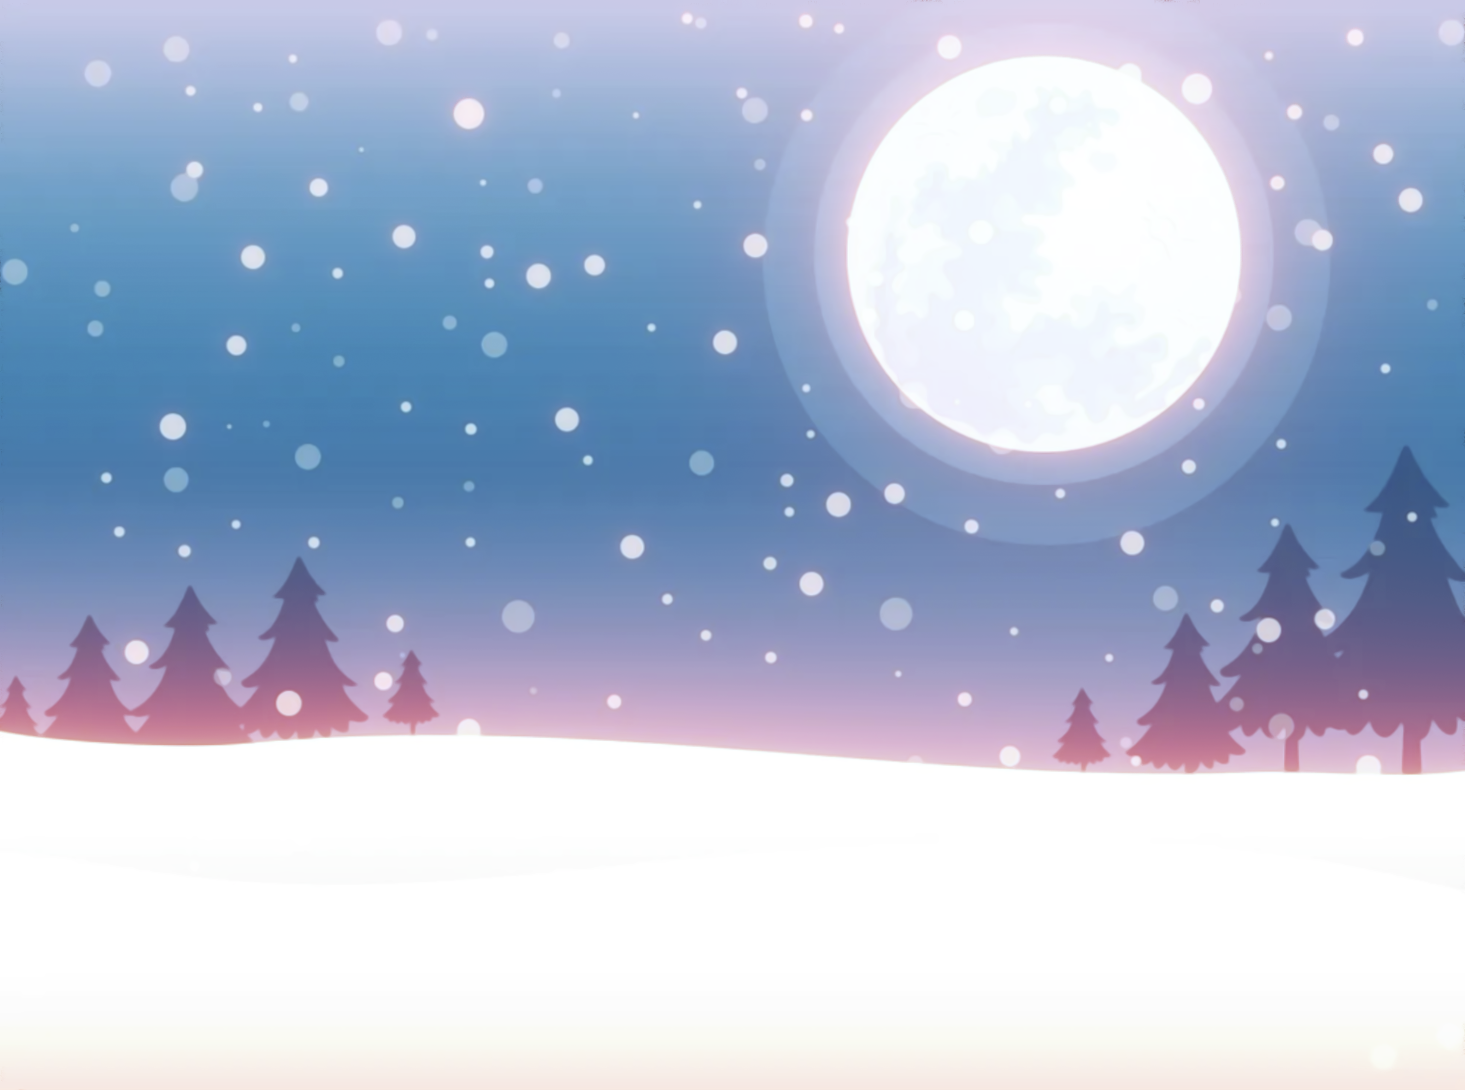
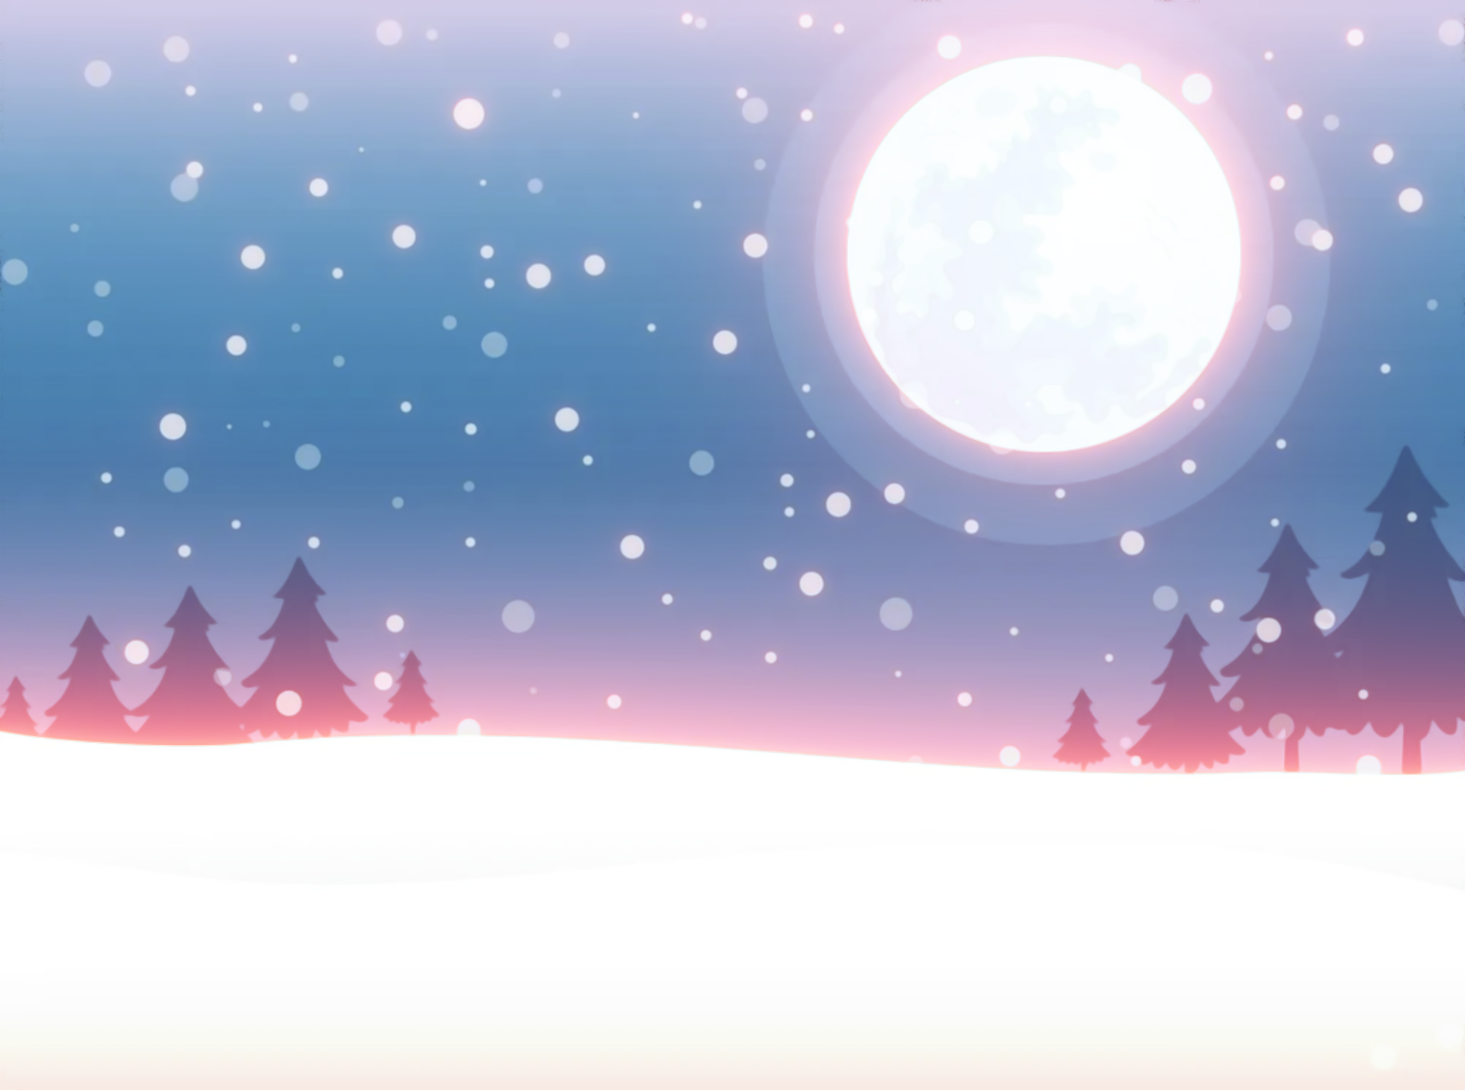
feat: add background anim variations

diff --git a/style.css b/style.css
@@ -424,25 +424,43 @@ body::-webkit-scrollbar-thumb {
   0% {
     background-image: url("./assets/pics/background/snowman_background_01.PNG");
   }
-  20% {
+  10% {
     background-image: url("./assets/pics/background/snowman_background_02.PNG");
+  }
+  15% {
+    background-image: url("./assets/pics/background/snowman_background_02.PNG");
+  }
+  20% {
+    background-image: url("./assets/pics/background/snowman_background_01.PNG");
   }
   25% {
-    background-image: url("./assets/pics/background/snowman_background_02.PNG");
+    background-image: url("./assets/pics/background/snowman_background_03.PNG");
   }
   30% {
+    background-image: url("./assets/pics/background/snowman_background_03.PNG");
+  }
+  35% {
     background-image: url("./assets/pics/background/snowman_background_01.PNG");
+  }
+  40% {
+    background-image: url("./assets/pics/background/snowman_background_04.PNG");
+  }
+  45% {
+    background-image: url("./assets/pics/background/snowman_background_04.PNG");
+  }
+  50% {
+    background-image: url("./assets/pics/background/snowman_background_01.PNG");
+  }
+  55% {
+    background-image: url("./assets/pics/background/snowman_background_01.PNG");
+  }
+  60% {
+    background-image: url("./assets/pics/background/snowman_background_05.PNG");
+  }
+  65% {
+    background-image: url("./assets/pics/background/snowman_background_05.PNG");
   }
   70% {
-    background-image: url("./assets/pics/background/snowman_background_01.PNG");
-  }
-  75% {
-    background-image: url("./assets/pics/background/snowman_background_03.PNG");
-  }
-  80% {
-    background-image: url("./assets/pics/background/snowman_background_03.PNG");
-  }
-  85% {
     background-image: url("./assets/pics/background/snowman_background_01.PNG");
   }
   100% {

diff --git a/style.scss b/style.scss
@@ -493,25 +493,43 @@ body::-webkit-scrollbar-thumb {
   0% {
     background-image: url("./assets/pics/background/snowman_background_01.PNG");
   }
-  20% {
+  10% {
     background-image: url("./assets/pics/background/snowman_background_02.PNG");
+  }
+  15% {
+    background-image: url("./assets/pics/background/snowman_background_02.PNG");
+  }
+  20% {
+    background-image: url("./assets/pics/background/snowman_background_01.PNG");
   }
   25% {
-    background-image: url("./assets/pics/background/snowman_background_02.PNG");
+    background-image: url("./assets/pics/background/snowman_background_03.PNG");
   }
   30% {
+    background-image: url("./assets/pics/background/snowman_background_03.PNG");
+  }
+  35% {
     background-image: url("./assets/pics/background/snowman_background_01.PNG");
+  }
+  40% {
+    background-image: url("./assets/pics/background/snowman_background_04.PNG");
+  }
+  45% {
+    background-image: url("./assets/pics/background/snowman_background_04.PNG");
+  }
+  50% {
+    background-image: url("./assets/pics/background/snowman_background_01.PNG");
+  }
+  55% {
+    background-image: url("./assets/pics/background/snowman_background_01.PNG");
+  }
+  60% {
+    background-image: url("./assets/pics/background/snowman_background_05.PNG");
+  }
+  65% {
+    background-image: url("./assets/pics/background/snowman_background_05.PNG");
   }
   70% {
-    background-image: url("./assets/pics/background/snowman_background_01.PNG");
-  }
-  75% {
-    background-image: url("./assets/pics/background/snowman_background_03.PNG");
-  }
-  80% {
-    background-image: url("./assets/pics/background/snowman_background_03.PNG");
-  }
-  85% {
     background-image: url("./assets/pics/background/snowman_background_01.PNG");
   }
   100% {

diff --git a/sound.js b/sound.js
@@ -14,7 +14,7 @@ const songsArray = [
     id: 3,
     song_path: "./assets/audio/Nick_Cave_O_Children.mp3",
     song_name: "Nick Cave Children",
-  }
+  },
 ];
 
 const soundWrapper = document.createElement("div");
@@ -23,6 +23,14 @@ soundWrapper.classList.add("snowman_sound_wrapper");
 const soundIcon = document.createElement("div");
 soundIcon.classList.add("snowman_sound");
 soundWrapper.appendChild(soundIcon);
+
+const volumeControl = document.createElement("input");
+volumeControl.classList.add("snowman_volume_control");
+volumeControl.setAttribute("type", "range");
+volumeControl.setAttribute("min", "0");
+volumeControl.setAttribute("max", "100");
+volumeControl.value = 20;
+soundWrapper.appendChild(volumeControl);
 
 const audioList = document.createElement("div");
 audioList.classList.add("snowman_audiolist");
@@ -40,6 +48,13 @@ soundName.textContent = songsArray[0].song_name;
 
 let currentSong = new Audio(songsArray[0].song_path);
 
+function setVolume() {
+  currentSong.volume = volumeControl.value / 100;
+}
+
+setVolume();
+
+
 let loopSong = currentSong.loop;
 loopSong = true;
 
@@ -53,6 +68,7 @@ for (let i = 0; i <= 2; i++) {
   songIcon.onclick = () => {
     soundName.textContent = songsArray[i].song_name;
     currentSong = new Audio(songsArray[i].song_path);
+    currentSong.addEventListener("ended", currentSong);
   };
 }
 
@@ -69,7 +85,5 @@ soundIcon.onclick = () => {
     soundIcon.classList.remove("anim");
   }
 };
-
-currentSong.volume = 0.2;
 
 export default soundWrapper;

diff --git a/questions.js b/questions.js
@@ -55,7 +55,7 @@ const questions = [
     id: 11,
     question:
       "How many Christmas trees are put in the Great Hall at Hogwarts for Christmas?",
-    answer: "twelwe",
+    answer: "twelve",
   },
   {
     id: 12,
